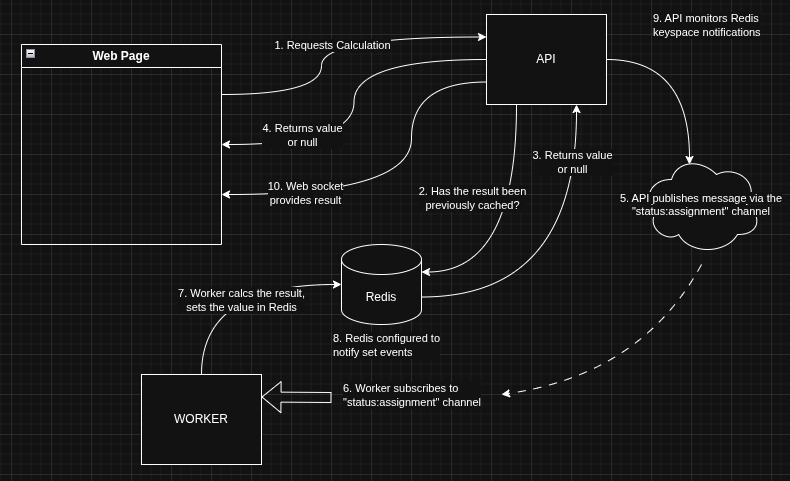
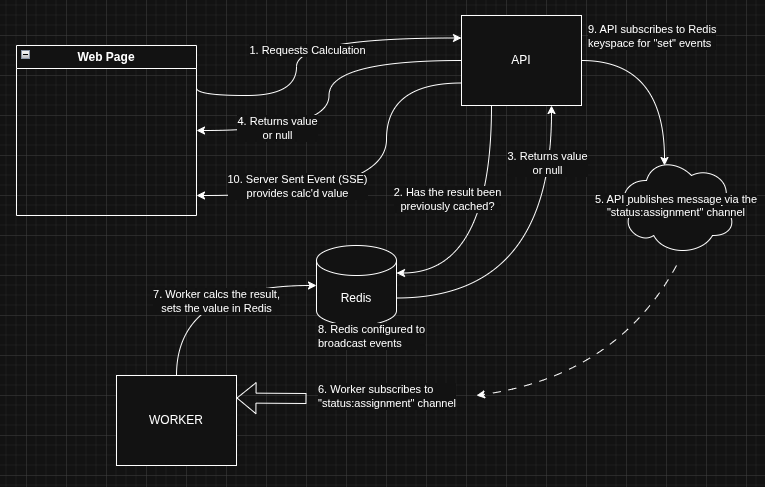
minor cleanup

diff --git a/api/index.js b/api/index.js
@@ -68,7 +68,7 @@ redisSubscriber.on("error", (err) => console.error("api subscriber:", err));
 
 const listener = async (message, channel) => {
   console.log(`received message "${message}" on channel ${channel}`);
-  // TODO: Is this the place to setup a web socket? Send update to the web client.
+  // TODO: Is this the place to dispatch SSE? Send event to the web client?
 };
 
 // connect all three Redis clients
@@ -110,22 +110,19 @@ app.get("/value/:index", async (req, res) => {
 
 app.post("/calculate", async (req, res) => {
   // attempt to find value in Redis cache
-  const getValue = await redisClient.get(req.body.index.toString());
+  const getValue = await redisClient.get(req.body.index);
   const isHit = getValue !== null;
-
-  // insert into Postgres
-  const insertText =
-    "INSERT INTO indexes (index, hit) VALUES ($1, $2) RETURNING _id;";
-  const values = [req.body.index, isHit];
-  await postgresPool.query(insertText, values);
 
   if (!isHit) {
     // cache miss, broadcast (publish) message to worker
-    await redisPublisher.publish(
-      "status:assignment",
-      req.body.index.toString()
-    );
+    await redisPublisher.publish("status:assignment", req.body.index);
   }
+
+  // insert into Postgres
+  const sqlStmt =
+    "INSERT INTO indexes (index, hit) VALUES ($1, $2) RETURNING _id;";
+  const values = [req.body.index, isHit];
+  await postgresPool.query(sqlStmt, values);
 
   res.json({ index: req.body.index, result: getValue });
 });

diff --git a/client/src/pages/About.jsx b/client/src/pages/About.jsx
@@ -33,9 +33,11 @@ function About() {
               Otherwise, publishes a message to a subscribed Nodejs worker to
               perform the calculation and caches the value in Redis
             </li>
+            <li>Update UI with data from Postgres</li>
             <li>
-              Update UI with data from Postgres ("values I have seen") and Redis
-              ("calculated values")
+              Update UI with cached value from Redis is available, otherwise
+              return a placeholder, which is updated via a Server Sent Event
+              (SSE)
             </li>
           </ul>
         </li>

diff --git a/worker/index.js b/worker/index.js
@@ -21,6 +21,8 @@ const connect = async () => {
   }
 };
 
+connect();
+
 // all of this overhead, just to get to this function!
 const fibonacci = (index) => {
   if (index < 2) {
@@ -37,8 +39,6 @@ const listener = async (message, channel) => {
   console.log(`setting pair, key: ${message}, value:${result}`);
   await client.set(message, result);
 };
-
-connect();
 
 // graceful shutdown
 const shutdown = async () => {

diff --git a/client/src/index.css b/client/src/index.css
@@ -41,6 +41,7 @@ span {
   justify-content: center;
   align-items: center;
   gap: 2rem;
+  width: 720px;
 }
 
 a {
@@ -123,7 +124,7 @@ button:hover {
 }
 
 .redis-display p.no-data {
-  font-family: 'Courier New', Courier, monospace;
+  font-family: "Courier New", Courier, monospace;
   color: #ccc;
 }
 

diff --git a/client/src/pages/Home.jsx b/client/src/pages/Home.jsx
@@ -36,7 +36,7 @@ function Home() {
           headers: {
             "Content-Type": "application/json",
           },
-          body: JSON.stringify({ index: parseInt(index) }),
+          body: JSON.stringify({ index }),
         });
 
         // { index: <Number>, result: <Number> || null }

diff --git a/README.md b/README.md
@@ -12,4 +12,4 @@ Configure Redis to publish [keyspace notifications](https://redis.io/docs/latest
 
 ## TODO
 
-- Web sockets?
+- Server Sent Event (SSE) implementation
